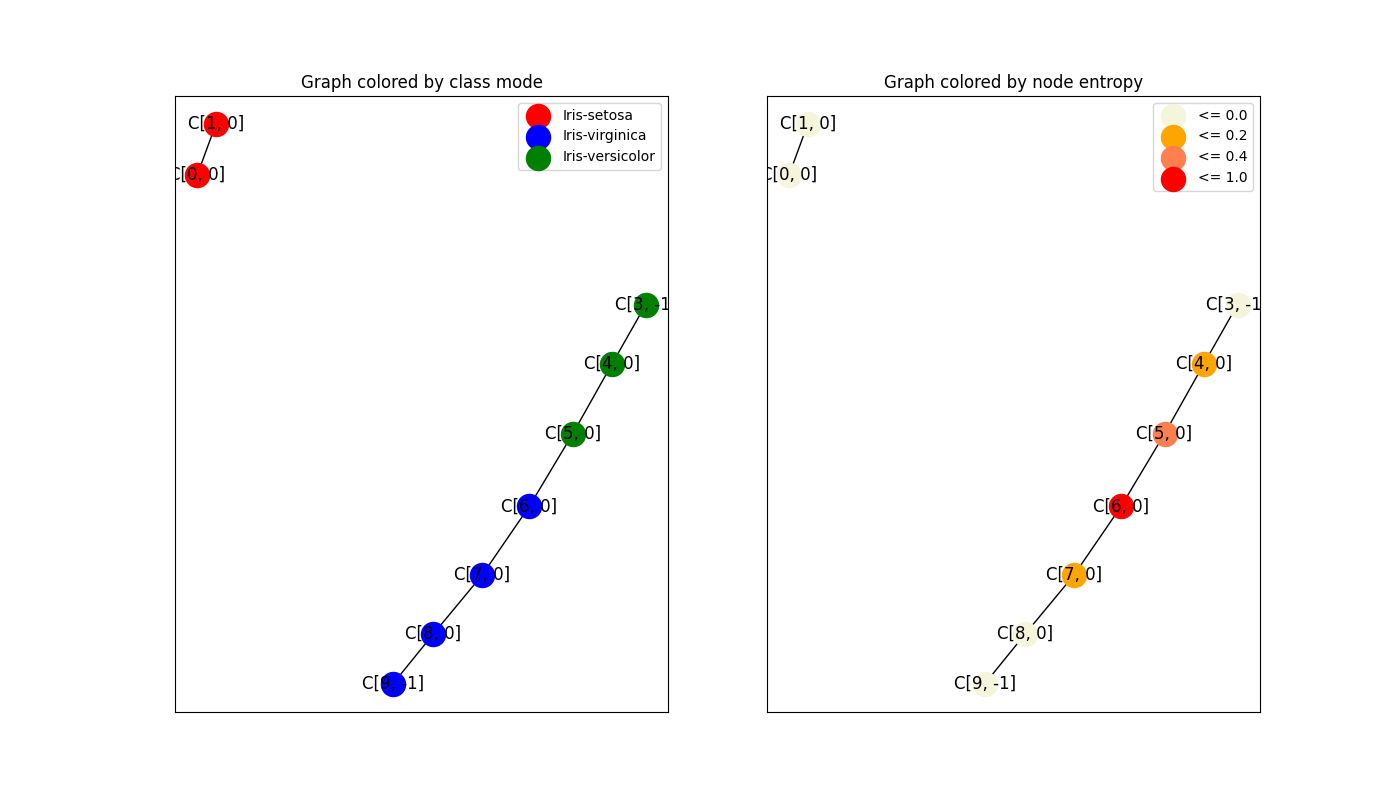
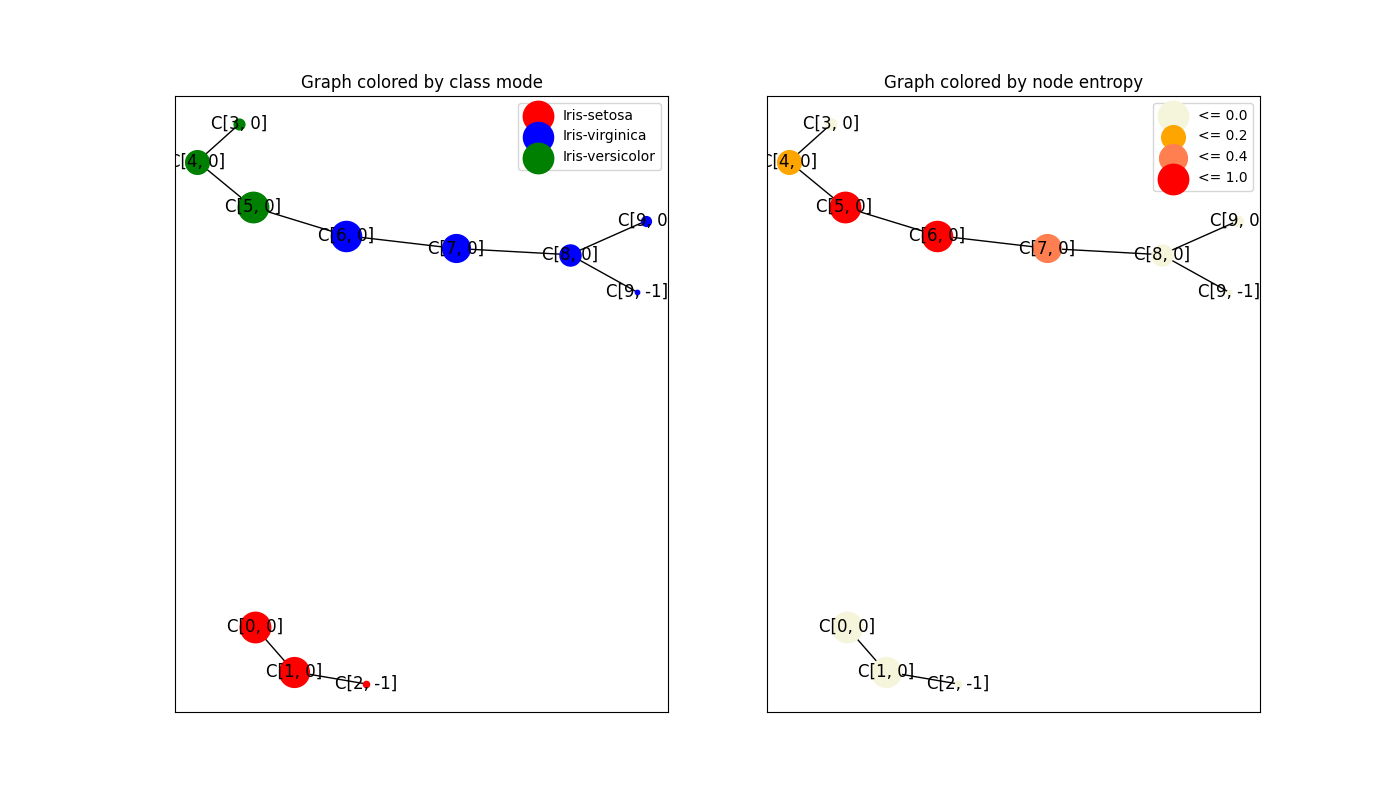
Size of node correlates to cluster number of instances

diff --git a/mapper/examples/iris.py b/mapper/examples/iris.py
@@ -14,7 +14,7 @@ def most_common(lst):
 
 def run():
     df = pd.read_csv('../../data/Iris.csv')
-    features = ['SepalLengthCm', 'SepalWidthCm' , 'PetalLengthCm', 'PetalWidthCm']
+    features = ['SepalLengthCm', 'SepalWidthCm', 'PetalLengthCm', 'PetalWidthCm']
     target = 'Species'
     X, y = df[features], df[target]
 
@@ -27,15 +27,13 @@ def run():
         lens=PCALens(),
         clusterer=DBSCAN(eps=1.5),
         n_intervals=10,
-        overlap_perc=0.3)
+        overlap_perc=0.5)
 
-    modes = []
-    entropies = []
+    node_info = []
     for name, data in graph.nodes.data():
         instances = data['instances']
         instance_classes = y[instances]
-        modes.append([name, instance_classes.mode()[0]])
-        entropies.append([name, entropy(instance_classes.value_counts() / instance_classes.shape[0])])
+        node_info.append([name, instance_classes])
 
     mode_colors = {
         'Iris-setosa': 'red',
@@ -47,12 +45,18 @@ def run():
     fig, axs = plt.subplots(figsize=(14, 8), ncols=2)
 
     axs[0].set_title('Graph colored by class mode')
+    cs = set()
     for c in ['Iris-setosa', 'Iris-virginica', 'Iris-versicolor']:
-        nx.draw_networkx_nodes(graph, pos,
-            ax=axs[0],
-            node_color=mode_colors[c],
-            nodelist=[m[0] for m in modes if m[1] == c],
-            label=c)
+        for ni in node_info:
+            if ni[1].mode()[0] != c:
+                continue
+            nx.draw_networkx_nodes(graph, pos,
+                ax=axs[0],
+                node_color=mode_colors[c],
+                nodelist=[ni[0]],
+                node_size=10*ni[1].shape[0],
+                label=c if c not in cs else None)
+            cs.add(c)
     nx.draw_networkx_edges(graph, pos=pos, ax=axs[0])
     nx.draw_networkx_labels(graph, pos, ax=axs[0])
     axs[0].legend(scatterpoints=1)
@@ -66,15 +70,21 @@ def run():
         1.0: 'red'
     }
     axs[1].set_title('Graph colored by node entropy')
-    used_nodes = []
+    used_nodes = set()
+    threshold_labels = set()
     for treshold, color in entropy_colors.items():
-        nodelist = [e[0] for e in entropies if e[1] <= treshold and e[0] not in used_nodes]
-        used_nodes = used_nodes + nodelist
-        nx.draw_networkx_nodes(graph, pos,
-            ax=axs[1],
-            node_color=color,
-            nodelist=nodelist,
-            label=f'<= {treshold}')
+        for ni in node_info:
+            e = entropy(ni[1].value_counts() / ni[1].shape[0])
+            if ni[0] in used_nodes or e > treshold:
+                continue
+            used_nodes.add(ni[0])
+            nx.draw_networkx_nodes(graph, pos,
+                ax=axs[1],
+                node_color=color,
+                nodelist=[ni[0]],
+                node_size=10 * ni[1].shape[0],
+                label=f'<= {treshold}' if treshold not in threshold_labels else None)
+            threshold_labels.add(treshold)
     nx.draw_networkx_edges(graph, pos=pos, ax=axs[1])
     nx.draw_networkx_labels(graph, pos, ax=axs[1])
     axs[1].legend(scatterpoints=1)
